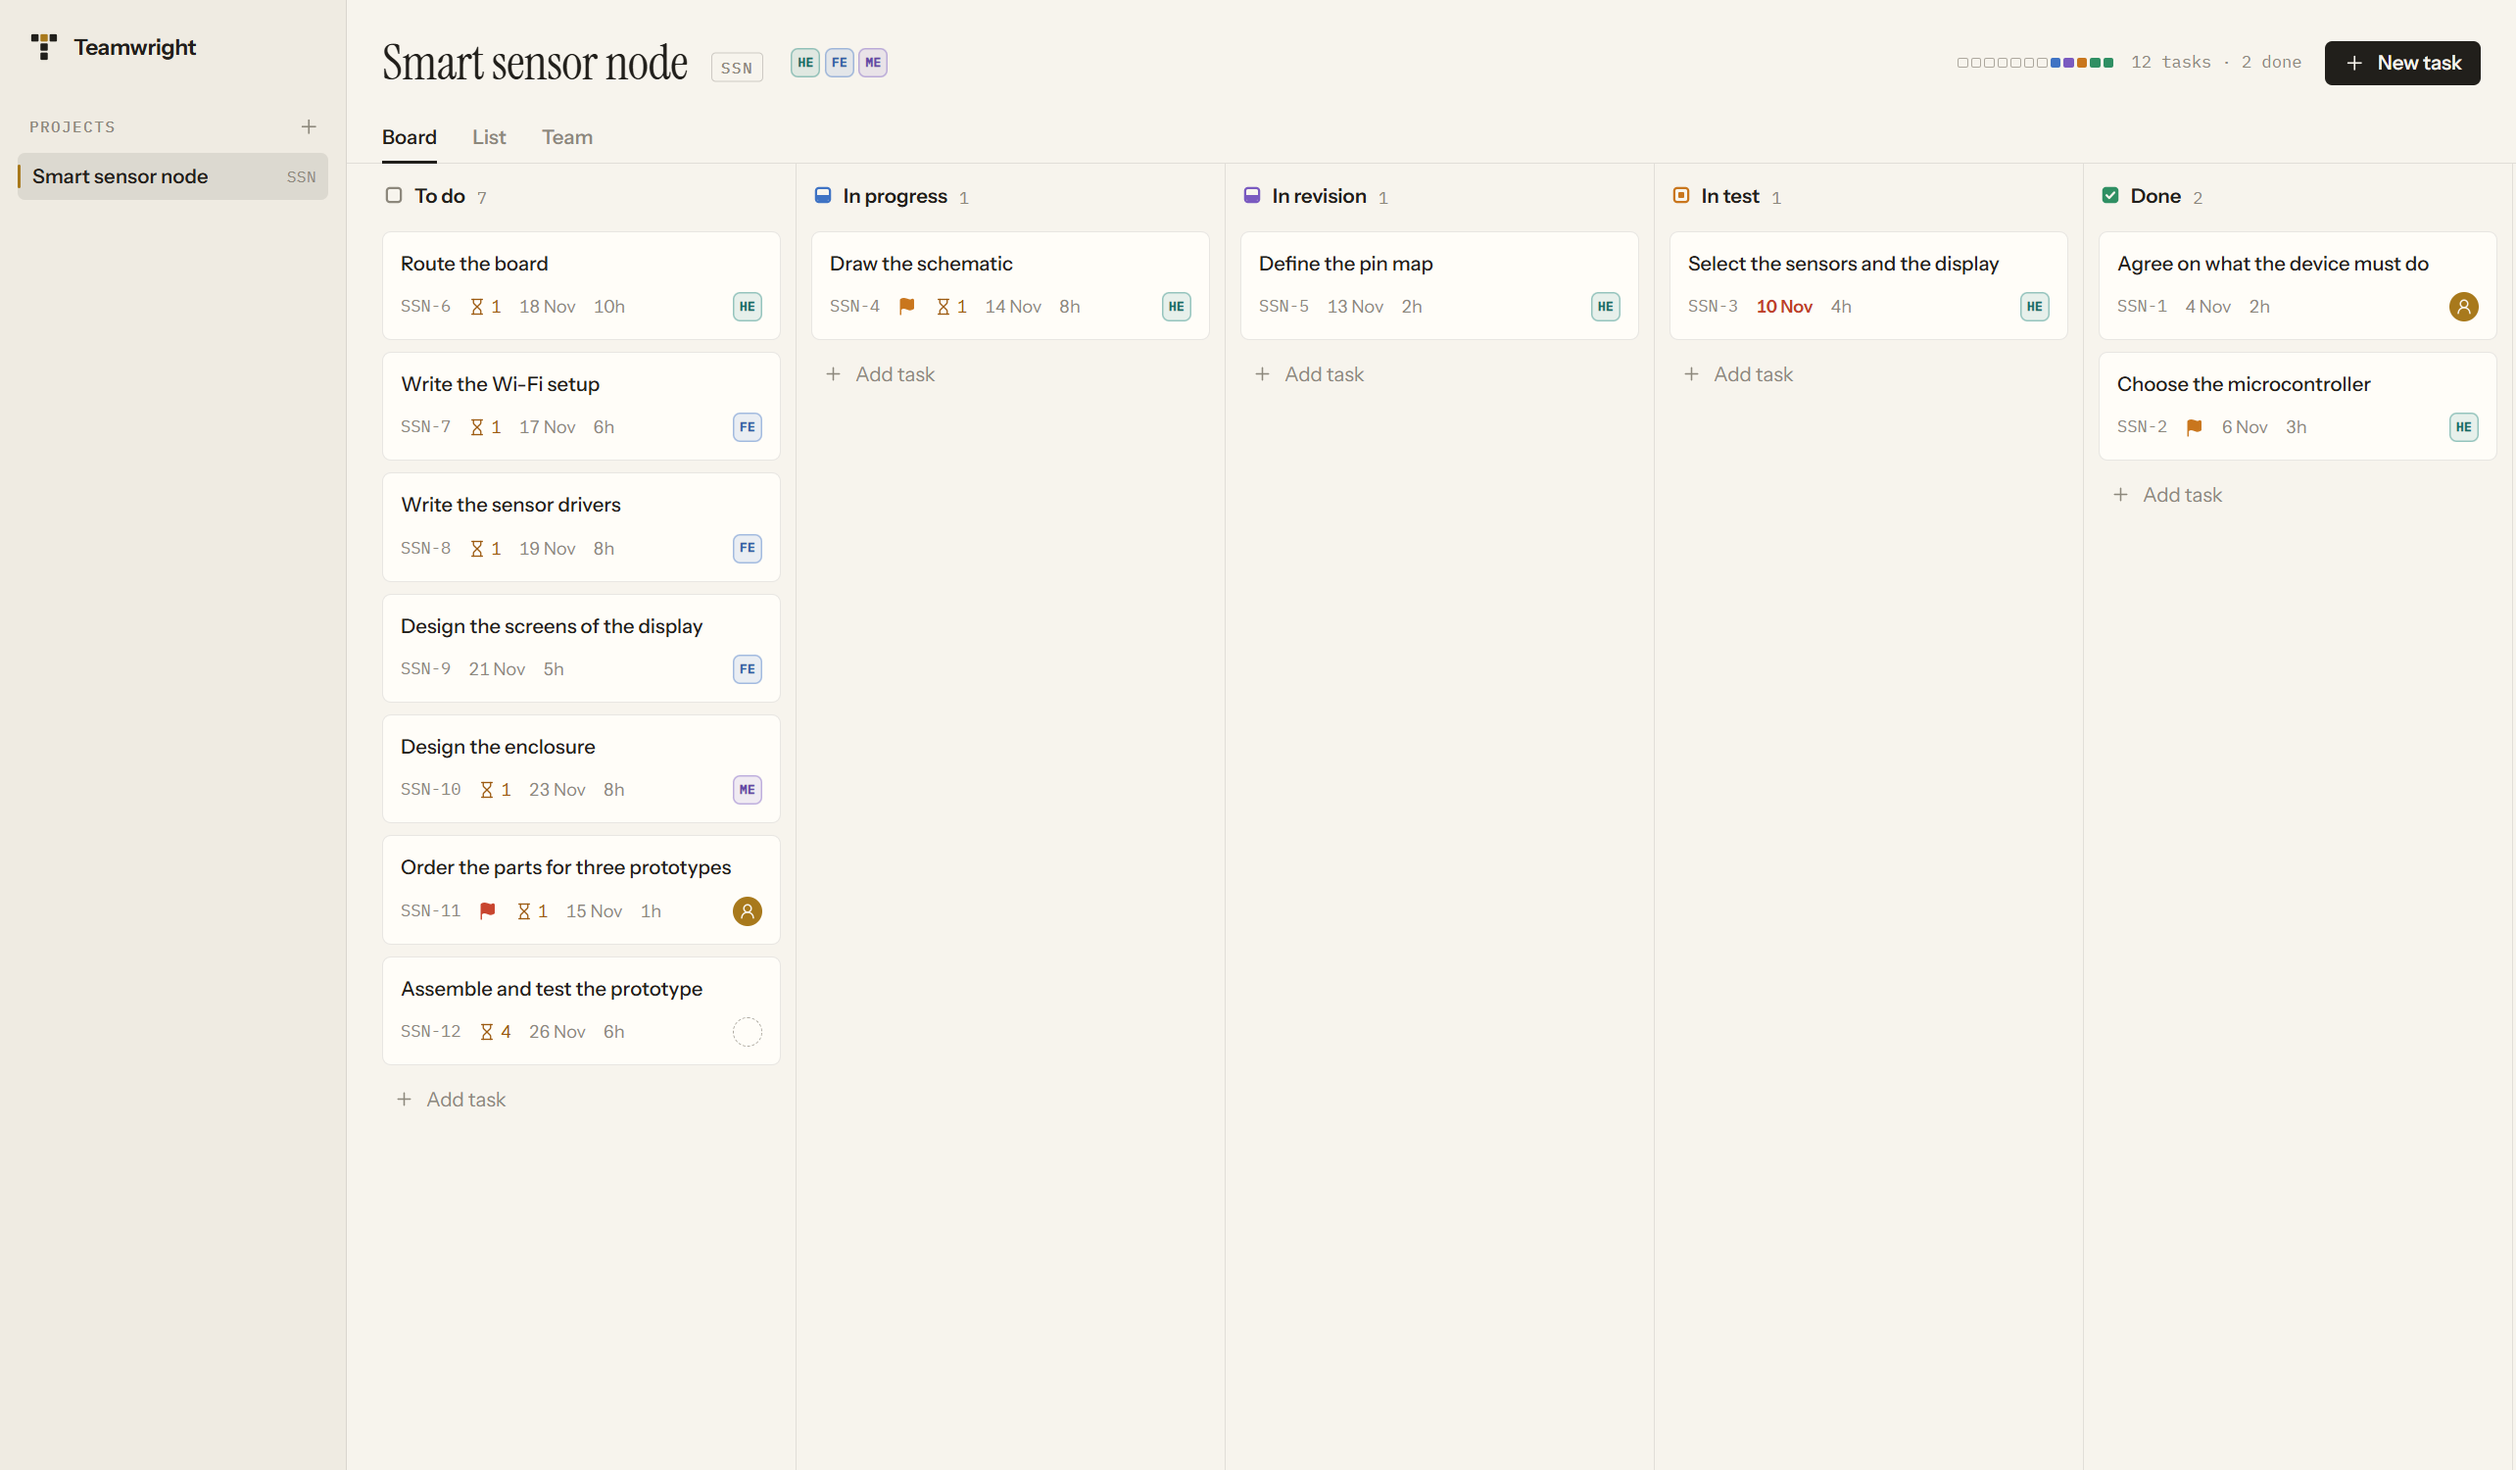
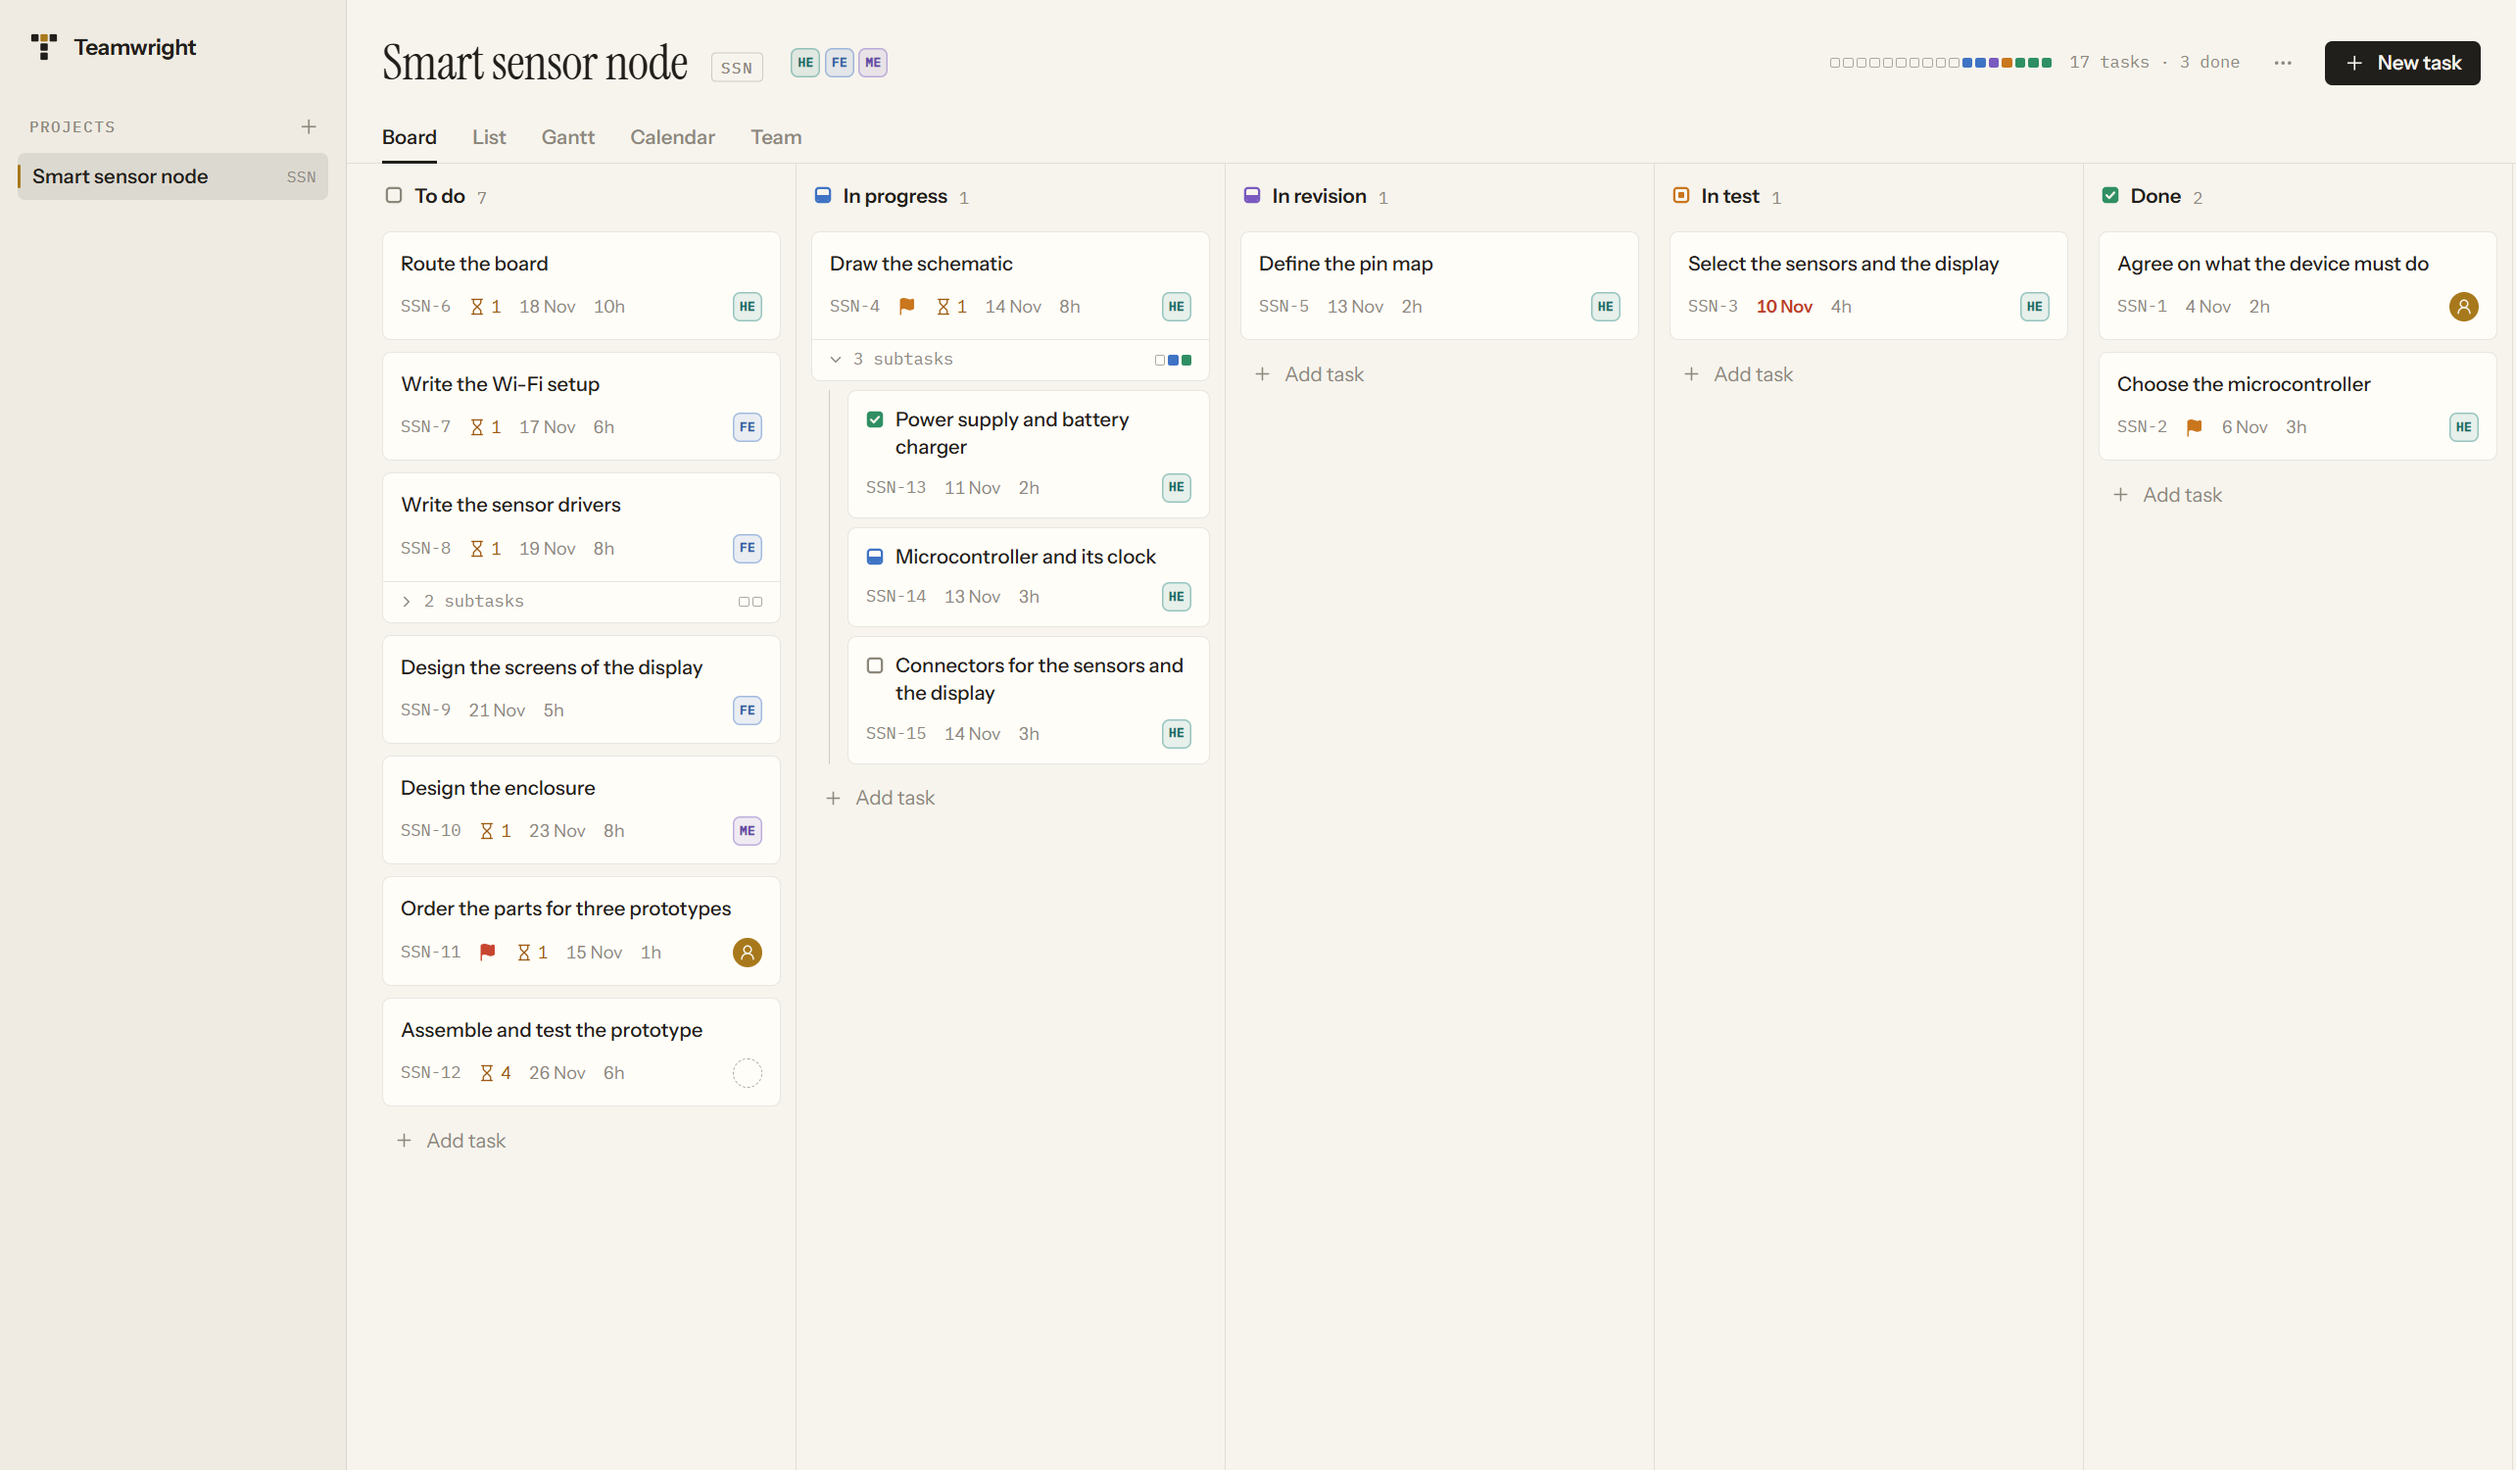
docs(screenshots): take the pictures again, and add six kinds
The pictures showed the program of two days ago. Since then a task shows
its subtasks behind a fold, its work and its history, and the project
has a Gantt chart, a calendar and a dialog for its statuses.

The tool gives two tasks of the sample project subtasks, opens the fold
of one of them, and also takes the Gantt chart, the calendar and the
dialog for the statuses. It finds the card of a task by the part of it
that is pressed, which is no longer the whole list item.

Two pictures are of another kind: a real specialist at work, and its
report. Nobody works in the sample project, so they are taken by the
test that lets a real specialist work, when it is given this folder.
What they show was done by a session of Claude Code.

diff --git a/docs/screenshots/README.md b/docs/screenshots/README.md
@@ -11,12 +11,27 @@ show them. Every picture exists twice: `-dark.png` for the dark theme and
 | `board` | The board of the sample project |
 | `task` | A task opened from the board |
 | `list` | The list of the sample project |
+| `gantt` | The Gantt chart of the sample project |
+| `calendar` | The calendar of the sample project |
 | `team` | The team of the sample project |
+| `statuses` | The dialog in which the statuses of a project are edited |
+| `specialist-working` | A real specialist at work on a task |
+| `specialist-report` | The same specialist's report |
 
 Nobody edits these files by hand.
 [A tool](../../tools/screenshots/capture-screenshots.mjs) starts the built
 application on an empty data folder, creates the sample project through the
-same commands the interface uses, and takes the pictures.
+same commands the interface uses, and takes the pictures. The Claude Code
+in them is a stand-in, like the project is a sample: what the pictures say
+about the program and the sign-in is the same on every computer, and is
+nobody's account.
 [The development guide](../development/README.md#pictures-for-the-documentation)
 says how to run it. Take the pictures again after a change that they would
 show.
+
+The two pictures of a specialist are taken by another tool,
+[the test that lets a real specialist work](../../tools/smoke/specialist-smoke.mjs),
+when it is given this folder. What they show was done by a real session of
+Claude Code, so the words of the report differ from one run to the next.
+That test uses a part of a Claude plan, so these two are taken again only
+when the work of the specialists looks different.
